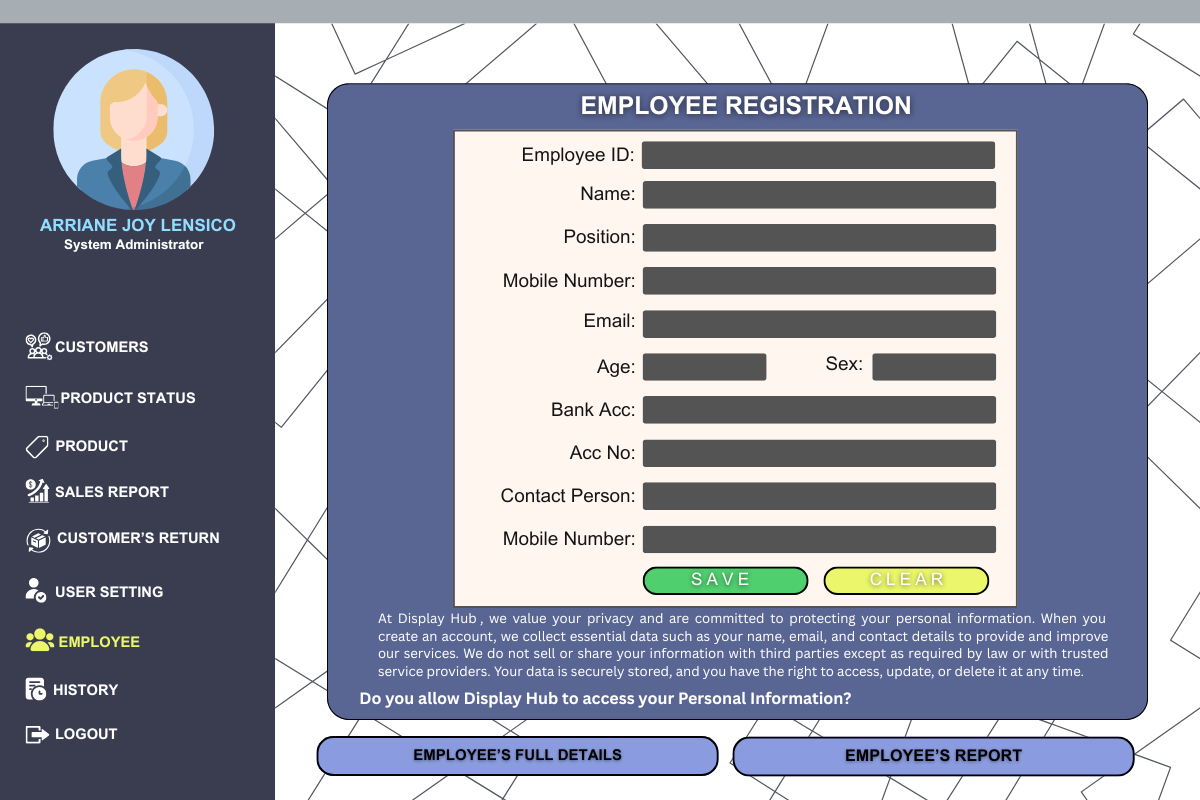
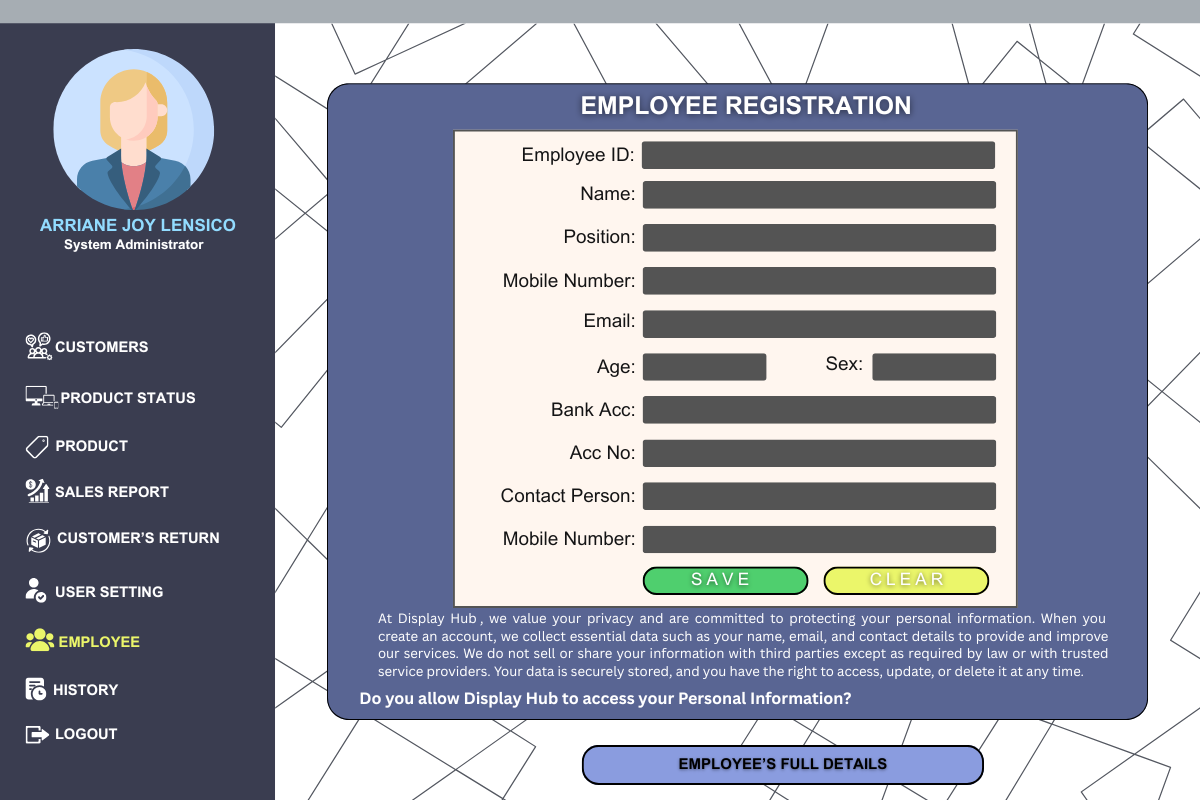
+

Changed region(s): [[0.2467, 0.9062, 0.9558, 1.0]]

diff --git a/src/lensico_inventory/pos/CASHIER_EMPLOYEE.java b/src/lensico_inventory/pos/CASHIER_EMPLOYEE.java
@@ -1,6 +1,7 @@
 
 package lensico_inventory.pos;
 
+import java.awt.Color;
 import java.awt.event.ActionEvent;
 import java.awt.event.ActionListener;
 import java.io.BufferedReader;
@@ -25,6 +26,11 @@ public class CASHIER_EMPLOYEE extends javax.swing.JFrame {
 
     private static final String FILE_PATH = "src/file_storage/cashierproduct.txt";
     
+    public CASHIER_EMPLOYEE(String username) {
+    initComponents();  // initialize UI components
+    CASHIER1.setText(username);  // set username on the label
+    // Add any other initialization here if needed
+}
     
     public CASHIER_EMPLOYEE() {
         initComponents();
@@ -45,6 +51,18 @@ updateItemsCount();
         
 
 discount.addActionListener(e -> applyDiscount());
+
+ 
+        
+        productid.setOpaque(false);
+        productid.setBackground(new Color (0,0,0,0));
+        
+        quanti.setOpaque(false);
+        quanti.setBackground(new Color (0,0,0,0));
+        
+        
+
+
     }
 
    
@@ -199,39 +217,48 @@ discount.addActionListener(e -> applyDiscount());
         grandtotal.setForeground(new java.awt.Color(255, 255, 255));
         getContentPane().add(grandtotal, new org.netbeans.lib.awtextra.AbsoluteConstraints(1060, 650, 200, 20));
 
-        discount.setBackground(new java.awt.Color(102, 102, 102));
+        discount.setBackground(new java.awt.Color(0, 0, 51));
         discount.setFont(new java.awt.Font("Arial", 0, 16)); // NOI18N
         discount.setForeground(new java.awt.Color(255, 255, 255));
         discount.setModel(new javax.swing.DefaultComboBoxModel<>(new String[] { "0%", "5%", "10%", "15%", "20%", "25%", "30%", " " }));
         discount.setBorder(javax.swing.BorderFactory.createEmptyBorder(1, 1, 1, 1));
-        getContentPane().add(discount, new org.netbeans.lib.awtextra.AbsoluteConstraints(1060, 590, 210, 20));
+        getContentPane().add(discount, new org.netbeans.lib.awtextra.AbsoluteConstraints(1055, 587, 220, 20));
 
-        newtransaction.setText("jButton2");
+        newtransaction.setToolTipText("");
+        newtransaction.setBorder(javax.swing.BorderFactory.createEmptyBorder(1, 1, 1, 1));
+        newtransaction.setContentAreaFilled(false);
         newtransaction.addActionListener(new java.awt.event.ActionListener() {
             public void actionPerformed(java.awt.event.ActionEvent evt) {
                 newtransactionActionPerformed(evt);
             }
         });
-        getContentPane().add(newtransaction, new org.netbeans.lib.awtextra.AbsoluteConstraints(1310, 180, 150, -1));
+        getContentPane().add(newtransaction, new org.netbeans.lib.awtextra.AbsoluteConstraints(1310, 180, 150, 30));
 
         TAX.setFont(new java.awt.Font("Arial", 0, 16)); // NOI18N
         TAX.setForeground(new java.awt.Color(255, 255, 255));
         TAX.setText("12%");
         getContentPane().add(TAX, new org.netbeans.lib.awtextra.AbsoluteConstraints(1060, 620, -1, -1));
 
-        CASHIER1.setText("jLabel2");
-        getContentPane().add(CASHIER1, new org.netbeans.lib.awtextra.AbsoluteConstraints(170, 770, 190, 20));
+        CASHIER1.setFont(new java.awt.Font("Arial", 1, 18)); // NOI18N
+        CASHIER1.setForeground(new java.awt.Color(255, 255, 255));
+        CASHIER1.setText("11");
+        getContentPane().add(CASHIER1, new org.netbeans.lib.awtextra.AbsoluteConstraints(164, 770, 190, 20));
 
-        customername.setText("jLabel2");
-        getContentPane().add(customername, new org.netbeans.lib.awtextra.AbsoluteConstraints(640, 760, 230, 20));
+        customername.setFont(new java.awt.Font("Arial", 1, 18)); // NOI18N
+        customername.setForeground(new java.awt.Color(255, 255, 255));
+        customername.setText("11");
+        getContentPane().add(customername, new org.netbeans.lib.awtextra.AbsoluteConstraints(640, 765, 230, 20));
 
-        customerID.setText("jTextField1");
+        customerID.setBackground(new java.awt.Color(0, 0, 51));
+        customerID.setFont(new java.awt.Font("Arial", 1, 18)); // NOI18N
+        customerID.setForeground(new java.awt.Color(255, 255, 255));
+        customerID.setBorder(javax.swing.BorderFactory.createEmptyBorder(1, 1, 1, 1));
         customerID.addActionListener(new java.awt.event.ActionListener() {
             public void actionPerformed(java.awt.event.ActionEvent evt) {
                 customerIDActionPerformed(evt);
             }
         });
-        getContentPane().add(customerID, new org.netbeans.lib.awtextra.AbsoluteConstraints(640, 730, 160, -1));
+        getContentPane().add(customerID, new org.netbeans.lib.awtextra.AbsoluteConstraints(640, 730, 170, -1));
 
         jLabel1.setIcon(new javax.swing.ImageIcon(getClass().getResource("/imagesss_panel/CASHIER EMPLOYEE.png"))); // NOI18N
         getContentPane().add(jLabel1, new org.netbeans.lib.awtextra.AbsoluteConstraints(0, 0, -1, 800));
@@ -357,6 +384,11 @@ discount.addActionListener(e -> applyDiscount());
 
     private void payandprintActionPerformed(java.awt.event.ActionEvent evt) {//GEN-FIRST:event_payandprintActionPerformed
     
+        if (customerID.getText().trim().isEmpty() || customername.getText().trim().isEmpty()) {
+        JOptionPane.showMessageDialog(this, "Please enter valid Customer ID and ensure customer name is displayed.", "Missing Customer Information", JOptionPane.WARNING_MESSAGE);
+        return;
+    }
+        
     try {
         String paymentStr = JOptionPane.showInputDialog(this, "Enter payment amount:");
         if (paymentStr == null) return; // User cancelled

diff --git a/src/lensico_inventory/pos/CRETURN.java b/src/lensico_inventory/pos/CRETURN.java
@@ -1,6 +1,7 @@
 
 package lensico_inventory.pos;
 
+import java.awt.Color;
 import java.io.BufferedReader;
 import java.io.BufferedWriter;
 import java.io.File;
@@ -26,7 +27,11 @@ public CRETURN() {
     setReturnDateToToday();
      loadReturnProductsFromFile();
      
-    
+    id.setOpaque(false);
+        id.setBackground(new Color (0,0,0,0));
+        
+        refnum.setOpaque(false);
+        refnum.setBackground(new Color (0,0,0,0));
 }
 
    private void setReturnDateToToday() {
@@ -313,61 +318,69 @@ private void saveTableToFile(DefaultTableModel model, String filePath) {
         });
         getContentPane().add(save, new org.netbeans.lib.awtextra.AbsoluteConstraints(565, 240, 100, 30));
 
+        price.setBorder(javax.swing.BorderFactory.createEmptyBorder(1, 1, 1, 1));
         price.addActionListener(new java.awt.event.ActionListener() {
             public void actionPerformed(java.awt.event.ActionEvent evt) {
                 priceActionPerformed(evt);
             }
         });
-        getContentPane().add(price, new org.netbeans.lib.awtextra.AbsoluteConstraints(540, 140, 190, 20));
+        getContentPane().add(price, new org.netbeans.lib.awtextra.AbsoluteConstraints(540, 138, 190, 22));
 
+        id.setBorder(javax.swing.BorderFactory.createEmptyBorder(1, 1, 1, 1));
         id.addActionListener(new java.awt.event.ActionListener() {
             public void actionPerformed(java.awt.event.ActionEvent evt) {
                 idActionPerformed(evt);
             }
         });
-        getContentPane().add(id, new org.netbeans.lib.awtextra.AbsoluteConstraints(340, 140, 190, 20));
+        getContentPane().add(id, new org.netbeans.lib.awtextra.AbsoluteConstraints(340, 138, 180, 22));
 
+        ProdID.setBorder(javax.swing.BorderFactory.createEmptyBorder(1, 1, 1, 1));
         ProdID.addActionListener(new java.awt.event.ActionListener() {
             public void actionPerformed(java.awt.event.ActionEvent evt) {
                 ProdIDActionPerformed(evt);
             }
         });
-        getContentPane().add(ProdID, new org.netbeans.lib.awtextra.AbsoluteConstraints(540, 190, 190, 20));
+        getContentPane().add(ProdID, new org.netbeans.lib.awtextra.AbsoluteConstraints(550, 192, 180, 22));
 
+        quanti.setBorder(javax.swing.BorderFactory.createEmptyBorder(1, 1, 1, 1));
         quanti.addActionListener(new java.awt.event.ActionListener() {
             public void actionPerformed(java.awt.event.ActionEvent evt) {
                 quantiActionPerformed(evt);
             }
         });
-        getContentPane().add(quanti, new org.netbeans.lib.awtextra.AbsoluteConstraints(750, 140, 190, 20));
+        getContentPane().add(quanti, new org.netbeans.lib.awtextra.AbsoluteConstraints(750, 138, 180, 22));
 
+        pdate.setBorder(javax.swing.BorderFactory.createEmptyBorder(1, 1, 1, 1));
         pdate.addActionListener(new java.awt.event.ActionListener() {
             public void actionPerformed(java.awt.event.ActionEvent evt) {
                 pdateActionPerformed(evt);
             }
         });
-        getContentPane().add(pdate, new org.netbeans.lib.awtextra.AbsoluteConstraints(750, 190, 190, 20));
+        getContentPane().add(pdate, new org.netbeans.lib.awtextra.AbsoluteConstraints(750, 192, 190, 22));
 
+        amount.setBorder(javax.swing.BorderFactory.createEmptyBorder(1, 1, 1, 1));
         amount.addActionListener(new java.awt.event.ActionListener() {
             public void actionPerformed(java.awt.event.ActionEvent evt) {
                 amountActionPerformed(evt);
             }
         });
-        getContentPane().add(amount, new org.netbeans.lib.awtextra.AbsoluteConstraints(950, 140, 190, 20));
+        getContentPane().add(amount, new org.netbeans.lib.awtextra.AbsoluteConstraints(950, 138, 190, 22));
 
+        rdate.setBorder(javax.swing.BorderFactory.createEmptyBorder(1, 1, 1, 1));
         rdate.addActionListener(new java.awt.event.ActionListener() {
             public void actionPerformed(java.awt.event.ActionEvent evt) {
                 rdateActionPerformed(evt);
             }
         });
-        getContentPane().add(rdate, new org.netbeans.lib.awtextra.AbsoluteConstraints(950, 190, 190, 20));
+        getContentPane().add(rdate, new org.netbeans.lib.awtextra.AbsoluteConstraints(950, 192, 190, 22));
 
+        refnum.setBorder(javax.swing.BorderFactory.createEmptyBorder(1, 1, 1, 1));
         refnum.addActionListener(new java.awt.event.ActionListener() {
             public void actionPerformed(java.awt.event.ActionEvent evt) {
                 refnumActionPerformed(evt);
             }
         });
-        getContentPane().add(refnum, new org.netbeans.lib.awtextra.AbsoluteConstraints(340, 190, 190, 20));
+        getContentPane().add(refnum, new org.netbeans.lib.awtextra.AbsoluteConstraints(338, 192, 190, 22));
 
         jLabel1.setIcon(new javax.swing.ImageIcon(getClass().getResource("/imagesss_panel/RETURN.png"))); // NOI18N
         getContentPane().add(jLabel1, new org.netbeans.lib.awtextra.AbsoluteConstraints(0, 0, -1, -1));

diff --git a/src/lensico_inventory/pos/EMPLOYEE.java b/src/lensico_inventory/pos/EMPLOYEE.java
@@ -1,6 +1,7 @@
 
 package lensico_inventory.pos;
 
+import java.awt.Color;
 import java.io.BufferedWriter;
 import java.io.FileWriter;
 import java.io.IOException;
@@ -118,6 +119,34 @@ public class EMPLOYEE extends javax.swing.JFrame {
              }
          });
           
+          eid.setOpaque(false);
+        eid.setBackground(new Color (0,0,0,0));
+        
+        name.setOpaque(false);
+        name.setBackground(new Color (0,0,0,0));
+        
+         mobilenumber.setOpaque(false);
+        mobilenumber.setBackground(new Color (0,0,0,0));
+        
+        email.setOpaque(false);
+        email.setBackground(new Color (0,0,0,0));
+        
+         age.setOpaque(false);
+        age.setBackground(new Color (0,0,0,0));
+        
+        bankacc.setOpaque(false);
+        bankacc.setBackground(new Color (0,0,0,0));
+        
+         accno.setOpaque(false);
+        accno.setBackground(new Color (0,0,0,0));
+        
+        cperson.setOpaque(false);
+        cperson.setBackground(new Color (0,0,0,0));
+        
+        cpnumber.setOpaque(false);
+        cpnumber.setBackground(new Color (0,0,0,0)); 
+         
+         
     }
     @SuppressWarnings("unchecked")
     // <editor-fold defaultstate="collapsed" desc="Generated Code">//GEN-BEGIN:initComponents
@@ -290,7 +319,7 @@ public class EMPLOYEE extends javax.swing.JFrame {
                 efdActionPerformed(evt);
             }
         });
-        getContentPane().add(efd, new org.netbeans.lib.awtextra.AbsoluteConstraints(320, 740, 400, 40));
+        getContentPane().add(efd, new org.netbeans.lib.awtextra.AbsoluteConstraints(580, 740, 400, 40));
 
         save.setBorder(javax.swing.BorderFactory.createEmptyBorder(1, 1, 1, 1));
         save.setContentAreaFilled(false);
@@ -337,11 +366,19 @@ public class EMPLOYEE extends javax.swing.JFrame {
         getContentPane().add(eid, new org.netbeans.lib.awtextra.AbsoluteConstraints(645, 140, 330, 30));
         eid.setOpaque(false);
 
+        sex.setBackground(new java.awt.Color(102, 102, 102));
+        sex.setFont(new java.awt.Font("Arial", 0, 16)); // NOI18N
+        sex.setForeground(new java.awt.Color(255, 255, 255));
         sex.setModel(new javax.swing.DefaultComboBoxModel<>(new String[] { "Please Select", "Male", "Female" }));
-        getContentPane().add(sex, new org.netbeans.lib.awtextra.AbsoluteConstraints(880, 350, 120, 30));
+        sex.setBorder(javax.swing.BorderFactory.createEmptyBorder(1, 1, 1, 1));
+        getContentPane().add(sex, new org.netbeans.lib.awtextra.AbsoluteConstraints(875, 354, 110, -1));
 
+        position.setBackground(new java.awt.Color(102, 102, 102));
+        position.setFont(new java.awt.Font("Arial", 0, 16)); // NOI18N
+        position.setForeground(new java.awt.Color(255, 255, 255));
         position.setModel(new javax.swing.DefaultComboBoxModel<>(new String[] { "Select Position", "Counter", "Bagger", "Manager" }));
-        getContentPane().add(position, new org.netbeans.lib.awtextra.AbsoluteConstraints(650, 230, 330, -1));
+        position.setBorder(javax.swing.BorderFactory.createEmptyBorder(1, 1, 1, 1));
+        getContentPane().add(position, new org.netbeans.lib.awtextra.AbsoluteConstraints(645, 225, 330, -1));
 
         jLabel1.setIcon(new javax.swing.ImageIcon(getClass().getResource("/imagesss_panel/EMPLOYEE.png"))); // NOI18N
         jLabel1.setToolTipText("");

diff --git a/src/lensico_inventory/pos/USERSETTING.java b/src/lensico_inventory/pos/USERSETTING.java
@@ -1,5 +1,6 @@
 package lensico_inventory.pos;
 
+import java.awt.Color;
 import java.io.BufferedReader;
 import java.io.BufferedWriter;
 import java.io.FileReader;
@@ -31,6 +32,19 @@ public class USERSETTING extends javax.swing.JFrame {
                  }
              }
          });
+         
+         eid.setOpaque(false);
+        eid.setBackground(new Color (0,0,0,0));
+        
+         name.setOpaque(false);
+        name.setBackground(new Color (0,0,0,0));
+        
+        password.setOpaque(false);
+        password.setBackground(new Color (0,0,0,0));
+        
+        confirmpassword.setOpaque(false);
+        confirmpassword.setBackground(new Color (0,0,0,0)); 
+         
     }
     
     
@@ -103,14 +117,14 @@ public class USERSETTING extends javax.swing.JFrame {
                 nameActionPerformed(evt);
             }
         });
-        getContentPane().add(name, new org.netbeans.lib.awtextra.AbsoluteConstraints(735, 323, 210, 25));
+        getContentPane().add(name, new org.netbeans.lib.awtextra.AbsoluteConstraints(735, 323, 200, 25));
 
         eid.setOpaque(false);
         eid.setBackground(new java.awt.Color(0, 0, 0));
         eid.setFont(new java.awt.Font("Segoe UI", 1, 12)); // NOI18N
         eid.setForeground(new java.awt.Color(255, 255, 255));
         eid.setBorder(javax.swing.BorderFactory.createEmptyBorder(1, 1, 1, 1));
-        getContentPane().add(eid, new org.netbeans.lib.awtextra.AbsoluteConstraints(735, 292, 210, 25));
+        getContentPane().add(eid, new org.netbeans.lib.awtextra.AbsoluteConstraints(735, 292, 200, 25));
 
         password.setOpaque(false);
         password.setBackground(new java.awt.Color(0, 0, 0));
@@ -122,14 +136,14 @@ public class USERSETTING extends javax.swing.JFrame {
                 passwordActionPerformed(evt);
             }
         });
-        getContentPane().add(password, new org.netbeans.lib.awtextra.AbsoluteConstraints(735, 355, 210, 25));
+        getContentPane().add(password, new org.netbeans.lib.awtextra.AbsoluteConstraints(735, 355, 160, 25));
 
         confirmpassword.setOpaque(false);
         confirmpassword.setBackground(new java.awt.Color(0, 0, 0));
         confirmpassword.setFont(new java.awt.Font("Segoe UI", 1, 12)); // NOI18N
         confirmpassword.setForeground(new java.awt.Color(255, 255, 255));
         confirmpassword.setBorder(javax.swing.BorderFactory.createEmptyBorder(1, 1, 1, 1));
-        getContentPane().add(confirmpassword, new org.netbeans.lib.awtextra.AbsoluteConstraints(735, 387, 210, 25));
+        getContentPane().add(confirmpassword, new org.netbeans.lib.awtextra.AbsoluteConstraints(735, 387, 160, 25));
 
         save.setBorder(javax.swing.BorderFactory.createEmptyBorder(1, 1, 1, 1));
         save.setContentAreaFilled(false);

diff --git a/src/lensico_inventory/pos/PRODUCTSTATUS.java b/src/lensico_inventory/pos/PRODUCTSTATUS.java
@@ -442,7 +442,7 @@ private void saveAllPanelQuantitiesToFile() {
                 imagepathActionPerformed(evt);
             }
         });
-        getContentPane().add(imagepath, new org.netbeans.lib.awtextra.AbsoluteConstraints(540, 555, 110, 20));
+        getContentPane().add(imagepath, new org.netbeans.lib.awtextra.AbsoluteConstraints(540, 555, 120, 20));
 
         edit.setBorder(javax.swing.BorderFactory.createEmptyBorder(1, 1, 1, 1));
         edit.setContentAreaFilled(false);
@@ -477,7 +477,7 @@ private void saveAllPanelQuantitiesToFile() {
         addtype.setForeground(new java.awt.Color(255, 255, 255));
         addtype.setHorizontalAlignment(javax.swing.JTextField.CENTER);
         addtype.setBorder(javax.swing.BorderFactory.createEmptyBorder(1, 1, 1, 1));
-        getContentPane().add(addtype, new org.netbeans.lib.awtextra.AbsoluteConstraints(780, 80, 170, -1));
+        getContentPane().add(addtype, new org.netbeans.lib.awtextra.AbsoluteConstraints(770, 80, 180, 20));
 
         jLabel1.setIcon(new javax.swing.ImageIcon(getClass().getResource("/imagesss_panel/PRODUCT STATUS_1.png"))); // NOI18N
         getContentPane().add(jLabel1, new org.netbeans.lib.awtextra.AbsoluteConstraints(0, 0, -1, -1));

diff --git a/src/lensico_inventory/pos/LOG_IN.java b/src/lensico_inventory/pos/LOG_IN.java
@@ -191,7 +191,8 @@ public class LOG_IN extends javax.swing.JFrame {
         if (username.equals("admin") && password.equals("123456")) {
             new ADMIN().setVisible(true);
         } else {
-            new CASHIER_EMPLOYEE().setVisible(true);
+             CASHIER_EMPLOYEE cashierFrame = new CASHIER_EMPLOYEE(username);
+    cashierFrame.setVisible(true);
         }
     
     }//GEN-LAST:event_enterActionPerformed
